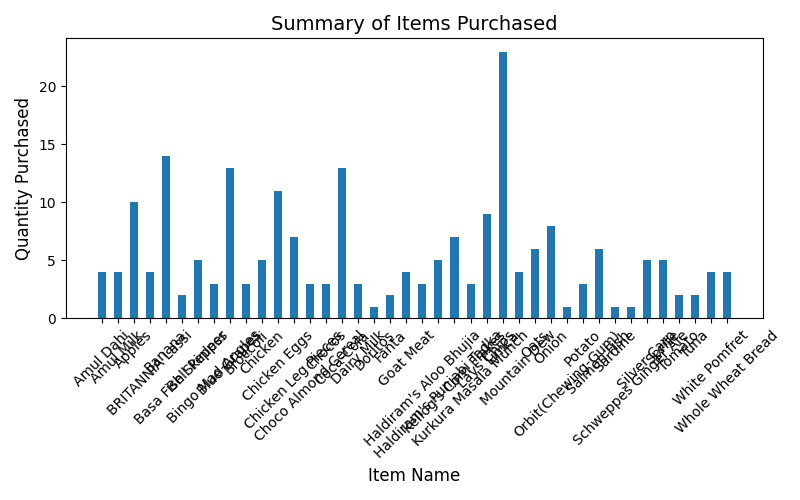
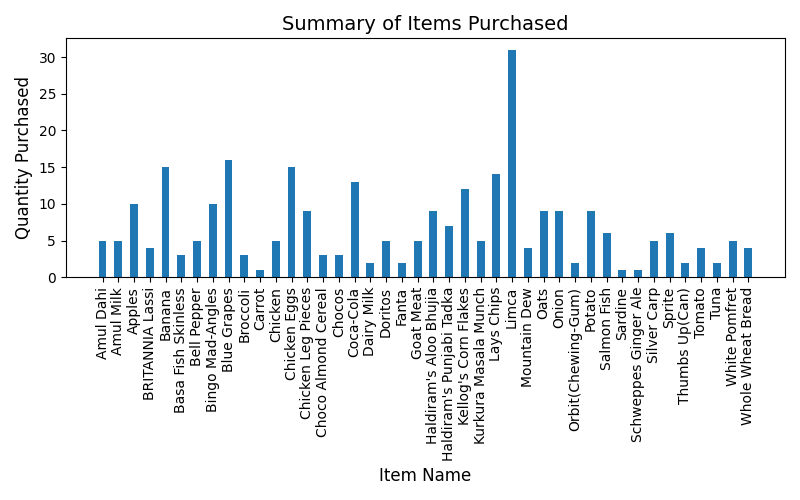
Commit 3.1.0

diff --git a/App.py b/App.py
@@ -1363,7 +1363,7 @@ def summary(name):
         plt.xlabel('Category', fontsize=12)
         plt.ylabel('Total Quantity', fontsize=12)
         plt.title('Category-wise Utilization', fontsize=14)
-        plt.xticks(rotation=45, fontsize=10)
+        plt.xticks( fontsize=10)
         plt.yticks(fontsize=10)
         
         plt.tight_layout()
@@ -1383,7 +1383,7 @@ def summary(name):
         plt.xlabel("Item Name", fontsize=12)
         plt.ylabel("Quantity Purchased", fontsize=12)
         plt.title("Summary of Items Purchased", fontsize=14)
-        plt.xticks(rotation=45, fontsize=10)
+        plt.xticks(rotation=90, fontsize=10)
         plt.yticks(fontsize=10)
         plt.tight_layout()
         
@@ -1623,11 +1623,11 @@ def delete_category(name,category_id):
 
 
 
-app.run(debug=True)
+# app.run(debug=True)
 
-# # Set the port from the environment variable, default to 10000
-# port = int(os.environ.get('PORT', 10000))
+# Set the port from the environment variable, default to 10000
+port = int(os.environ.get('PORT', 10000))
 
-# if __name__ == '__main__':
-#     app.run(host='0.0.0.0', port=port)
+if __name__ == '__main__':
+    app.run(host='0.0.0.0', port=port)
 
